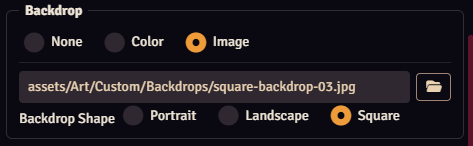
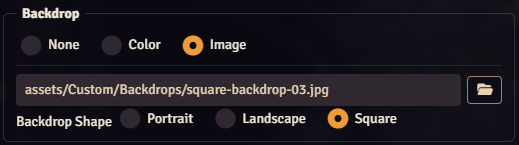
docs: refresh backdrop and audio-timing guide screenshots
Replace guide PNGs with Joel's captures; align GUIDE copy to the live
Audio & Timing and Backdrop fieldsets.

Changed region(s): [[0.0, 0.0276, 1.0, 1.0], [0.0296, 0.2207, 0.5328, 0.3862]]

diff --git a/docs/GUIDE.md b/docs/GUIDE.md
@@ -101,8 +101,10 @@ Audio & Timing) as authoritative.
 
 ## Settings — Backdrop
 
-**None**, **Color**, or **Image**, plus **Backdrop Shape** (Portrait /
-Landscape / Square) when a backdrop is active.
+**None**, **Color**, or **Image** select the backdrop style; **Color** and
+**Image** reveal their path or color picker when selected. **Backdrop Shape**
+— **Portrait**, **Landscape**, or **Square** — sets the frame proportions
+for the backdrop panel.
 
 ![Backdrop mode and shape options](images/guide/herald-template-settings-backdrop.png)
 
@@ -119,16 +121,14 @@ Center or a corner (select control).
 
 ## Settings — Audio & Timing
 
-Optional **Audio Track** (mutes the portrait video's own audio when set so
-sources do not overlap). **Mute Audio** overrides everything. **Volume**
-(0–100, default 50) applies to the track and to a portrait video's embedded
-sound when that video is the sound source. **Duration (ms)** — `0` means
-click the overlay card to dismiss.
+Optional **Audio Track** — when set, the portrait video's own audio is muted
+so the track and video do not play at once. **Mute Audio** overrides
+everything (track and portrait video). **Volume** (0–100, default **50**,
+live percentage label) applies to the audio track and to the portrait
+video's own sound when that video is the sound source. **Duration (ms)** —
+**0** means click the overlay card to close it manually.
 
 ![Audio and timing options](images/guide/herald-template-settings-audio-timing.png)
-
-> **Screenshot note (Joel):** if this capture predates the **Volume** slider,
-re-shoot **Audio & Timing** so the slider and percentage label appear.
 
 ---
 
